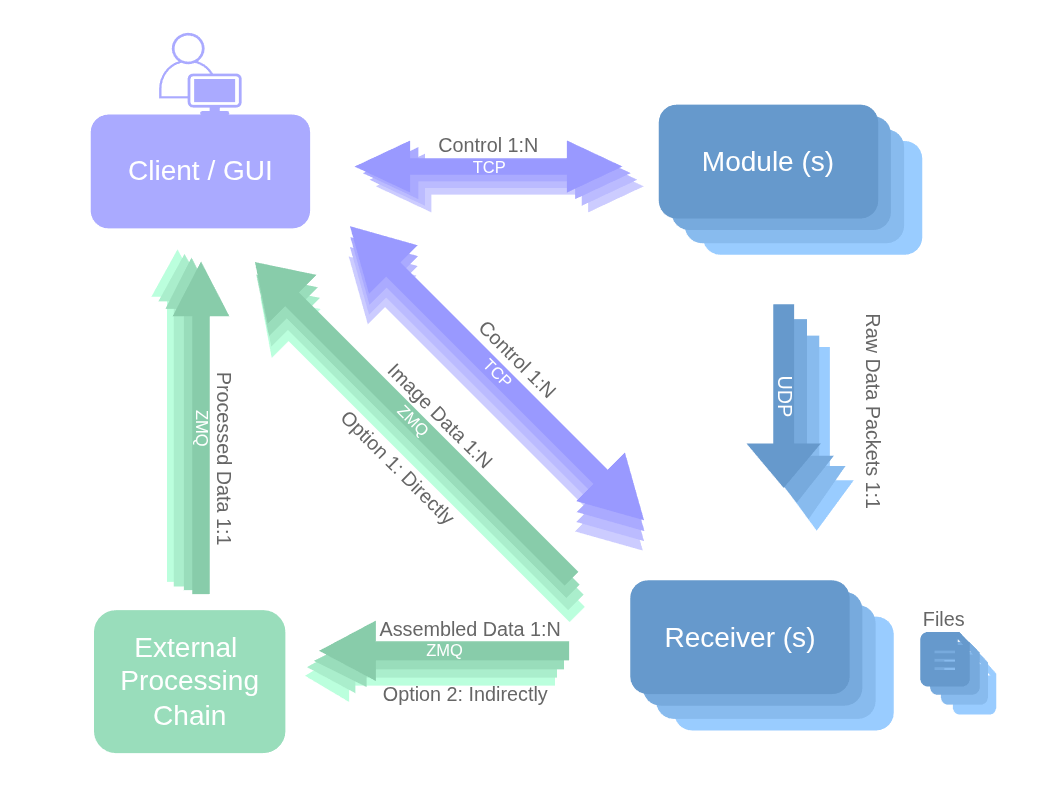
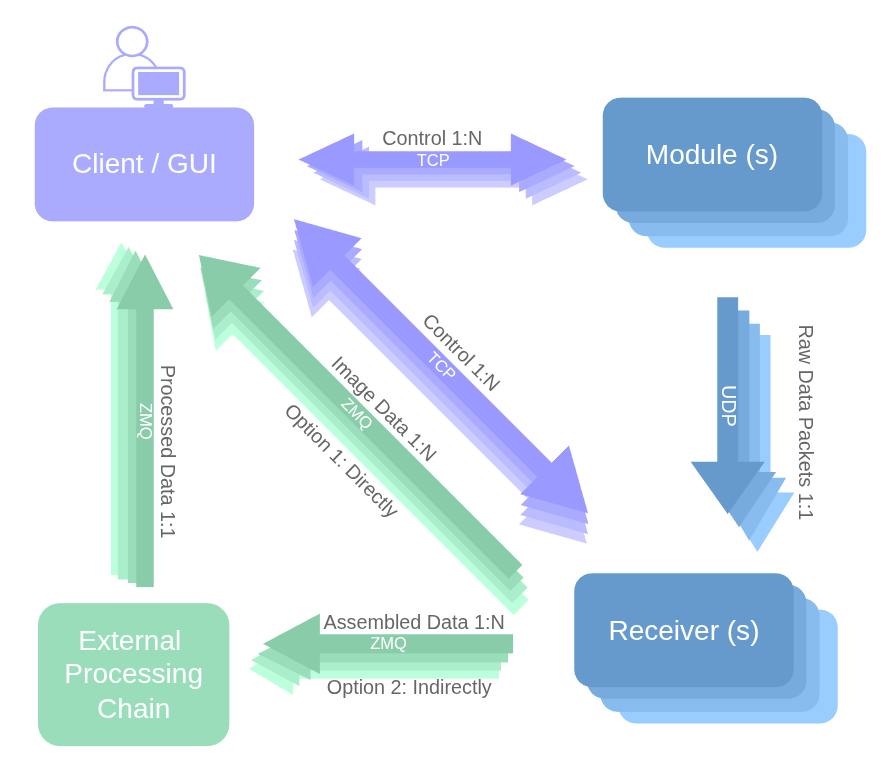
wip:intro

diff --git a/docs/src/softwarearchitecture.rst b/docs/src/softwarearchitecture.rst
@@ -13,10 +13,43 @@ Introdcution
    :align: center
    :alt: System communication architecture
 
-   Sytem Communication Architecture
+   Software Communication Architecture
 
 
-Bla bla bla
+| A detector can consist of a single module or multiple modules combined.
+
+| Each module sends its data via UDP over distinct ports. Since UDP does not provide acknowledgements, data is transmitted as fast as possible, which can lead to packet loss if the network is not properly configured, among other causes.
+
+| UDP data is received by one or more receivers—either built-in or custom. In the diagram above, there is one built-in receiver per module (1:1). For example, a detector with two modules (two hostnames) will have two built-in receivers.
+
+| A single client can configure and control individual modules and receivers, or multiple of them in parallel. This communication is handled over TCP/IP, ensuring acknowledgements.
+
+| A single image received by the receiver(s) may be split into multiple UDP packets. For each UDP port, the receiver reassembles these packets into sub-images, which can then be streamed:
+* Directly to the GUI for display.
+* To an external processing chain for post-processing and optional storage, which can in turn stream the processed data back to the GUI.
+
+| Streaming image data from the receiver is done via ZMQ packets (core: TCP/IP).
+
+| Next, we examine each component in detail.
+
+Module
+-------
+* Single or multiple indepedent modules
+* Configured from a single client via TCP, individually or in parallel. 
+* Contains:
+   * hardware such as sensor, chip, FPGA and microprocessor
+   * an on-board CPU software (compiled in C for the microprocessor)
+      * communicates with 
+   * a firmware for the FPGA, handling register access
+
+
+
+Receiver
+--------
+* Optional
+* Local or remote 
+* Module to Receiver: 1:1
+
 
 .. image:: images/Client_module_commands.png
    :target: _images/Client_module_commands.png

diff --git a/docs/src/fileformat.rst b/docs/src/fileformat.rst
@@ -62,3 +62,14 @@ There are 2 file formats supported by the receiver:
 
 The default is binary. HDF5 can be enabled by compiling the package with HDF5 option enabled. The file format is set using the command `fformat <commandline.html#term-fformat-binary-hdf5>`_.
 
+
+Content
+--------
+
+| `Master File`: Contains the metadata of the acquisition. The content is described in :ref:`master file attributes <master file attributes>`.
+
+
+| `Data File`: Contains the metadata for each image (:ref:`slsReceiverHeader<sls receiver header format>`) and the `data of the image` transmitted over that port. The image data is described in :ref:`Detector Image Size and Format <data format>` section.
+
+
+| More content and examples are found in the :ref:`HDF5 file format <hdf5 file format>` and :ref:`Binary file format <binary file format>` sections.

diff --git a/docs/src/index.rst b/docs/src/index.rst
@@ -18,6 +18,16 @@ Welcome to slsDetectorPackage's documentation!
     installation
     dependencies
     consuming
+
+
+.. toctree::
+    :caption: how to
+    :maxdepth: 2
+
+    softwarearchitecture
+    quick_start_guide
+    dataformat
+    multidet
    
 .. toctree::
     :caption: C++ API
@@ -28,13 +38,8 @@ Welcome to slsDetectorPackage's documentation!
     receiver_api
     examples
 
-.. toctree::
-    :caption: how to
-    :maxdepth: 2
 
-    multidet
-    quick_start_guide
-    softwarearchitecture
+
     
 .. toctree::
     :caption: Python API
@@ -97,9 +102,9 @@ Welcome to slsDetectorPackage's documentation!
     :caption: Receiver Files
     :maxdepth: 3
 
-    dataformat
     fileformat
     slsreceiverheaderformat
+    dataformat
     masterfileattributes
     binaryfileformat
     hdf5fileformat

diff --git a/docs/src/binaryfileformat.rst b/docs/src/binaryfileformat.rst
@@ -1,3 +1,5 @@
+.. _binary file format:
+
 Binary File Format
 ====================
 
@@ -31,6 +33,7 @@ Data File
 
 * Each frame includes a :ref:`**sls_receiver_header** <sls receiver header format>` structure, followed by the actual frame data.
 
+* More details on :ref:`slsReceiverHeader<sls receiver header format>` and the actual image data is described in the :ref:`Detector Image Size and Format <data format>` section.
 
 
 .. _json master file examples:

diff --git a/docs/src/hdf5fileformat.rst b/docs/src/hdf5fileformat.rst
@@ -1,4 +1,4 @@
-
+.. _hdf5 file format:
 
 HDF5 File Format
 ================================
@@ -75,6 +75,8 @@ Data File
 -----------
 
 * File Name: [fpath]/[fname]_dx_fy_[findex].h5 :ref:`Details here<file name format>`
+
+* More details on :ref:`slsReceiverHeader<sls receiver header format>` and the actual image data is described in the :ref:`Detector Image Size and Format <data format>` section.
 
 
 Virtual Data File

diff --git a/docs/src/quick_start_guide.rst b/docs/src/quick_start_guide.rst
@@ -140,7 +140,7 @@ Data
 
 Check out the :ref:`UDP header section<detector udp header>` for details on output UDP header data format.`
 
-Check out the :ref:`Data format section<data format>`  for details on output data format.
+Check out the :ref:`Detector image size and format section<data format>`  for details on output data format.
 
 
 Receiver

diff --git a/docs/src/dataformat.rst b/docs/src/dataformat.rst
@@ -1,6 +1,6 @@
 .. _data format:
 
-Data Format
+Detector Image Size and Format
 ================================
 
 Each UDP port creates its own output file, which contains the data of the image transmitted over that port. More on number of files and naming for each file in the `File format <fileformat.html>`_ section.

diff --git a/docs/src/multidet.rst b/docs/src/multidet.rst
@@ -1,3 +1,5 @@
+.. _using multiple detectors:
+
 Using multiple detectors
 ==========================
 
